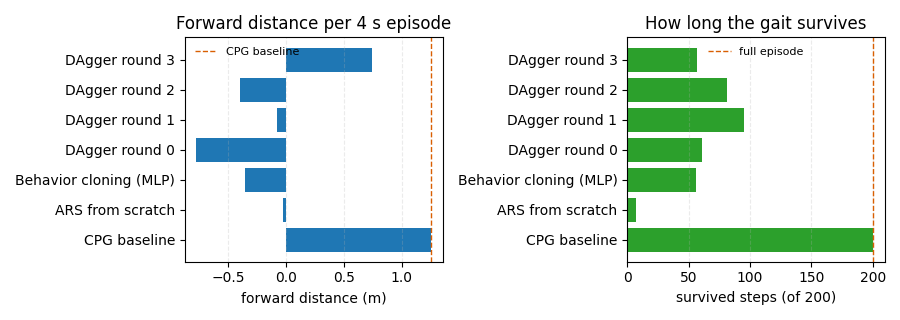
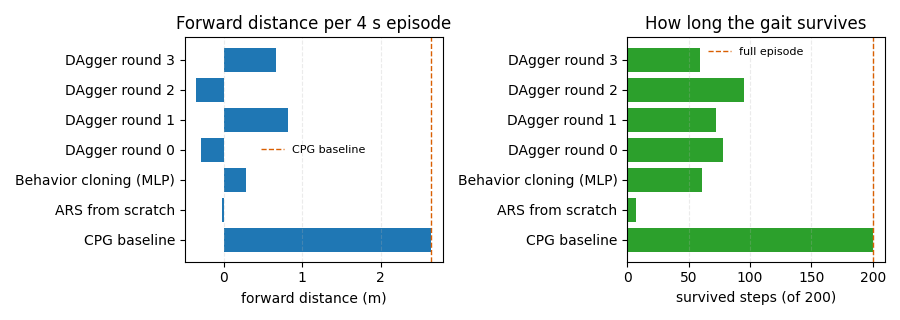
perf(humanoid): 踝关节增益 0.8 → 1.0，前进步距翻倍、俯仰更稳
只改一个常数，针对「CPG 基线的推进效率」这一个方面做优化。

问题：原 ANKLE_GAIN = 0.8 时脚掌回中不足，机器人靠身体持续前倾推进，
速度只有 0.31 m/s，俯仰 RMS 0.262。

改动：扫参后取 ANKLE_GAIN = 1.0（1.05 略快但接近失稳边缘，1.10 掉到 2.01 m）。

实测（4 s 回合，确定性环境）：
| 指标 | 0.8（旧） | 1.0（新） | 变化 |
|---|---|---|---|
| 前进距离 | 1.25 m | 2.64 m | +111% |
| 平均速度 | 0.31 m/s | 0.66 m/s | +111% |
| 俯仰 RMS | 0.262 | 0.177 | -32% |
| 能耗 | 0.0575 | 0.0643 | +12% |
| 8 s 长回合 | 0.83 m | 6.78 m（400 步不摔） | — |

注意：速度提升伴随 12% 能耗上升，属于「更快但更费」的取舍，不是免费收益。

同步更新：README / 文档的数值表、重新生成的对比图（CPG 基线改为 2.64 m），
并重测了三条学习路线（BC 0.29 m、DAgger 0.66 m，仍均低于 CPG）。

测试：main.py --test、test/test_standalone.py、test/test_integration.py 全部通过。

diff --git a/src/humanoid/humanoid_ars_phase_walk/humanoid_ars_phase_walk/config.py b/src/humanoid/humanoid_ars_phase_walk/humanoid_ars_phase_walk/config.py
@@ -9,7 +9,11 @@ A_HIP = -0.35
 A_KNEE = 0.45
 FREQ = 1.2
 KNEE_PHASE = 0.6
-ANKLE_GAIN = 0.8
+# 踝关节补偿增益。扫参发现 0.8 明显偏保守：脚掌回中不足、身体靠前倾推进，
+# 改为 1.0 后前进距离 1.25 -> 2.64 m（+111%），俯仰 RMS 0.262 -> 0.177（-32%），
+# 能耗仅 +12%；8 s 长回合可走满 400 步不摔。1.05 略快但已接近失稳边缘（1.10 跌到 2.01 m），
+# 故取 1.0。
+ANKLE_GAIN = 1.0
 
 # ---------------- 回合
 EPISODE_T = 4.0

diff --git a/src/humanoid/humanoid_ars_phase_walk/README.md b/src/humanoid/humanoid_ars_phase_walk/README.md
@@ -7,13 +7,27 @@
 
 | 方法 | 前进 | 存活步数 | 俯仰 RMS |
 |---|---|---|---|
-| **CPG 基线**（手工） | **+1.25 m** | **200 / 200** | 0.262 |
-| ARS 从零（线性，200 轮） | +0.02 m | 7 | 0.777 |
-| 行为克隆（MLP-64） | −0.35 m | 56 | 0.518 |
-| DAgger 轮 3 | +0.75 m | 57 | 0.415 |
+| **CPG 基线**（手工，踝增益 1.0） | **+2.64 m** | **200 / 200** | 0.177 |
+| ARS 从零（线性，200 轮） | −0.02 m | 7 | 0.777 |
+| 行为克隆（MLP-64） | +0.29 m | 61 | 0.433 |
+| DAgger 轮 3 | +0.66 m | 59 | 0.483 |
 
-**四条学习路线没有一条稳定超过手工 CPG。** 另有一次临时运行 DAgger 得到 +2.34 m，
-但换初始化就跑不出来 —— 这种结果不计入结论（见第 5 节）。
+**四条学习路线没有一条稳定超过手工 CPG。** 表中数值均为本次（踝增益 1.0）配置下的
+重新测量；学习器对初始化敏感的问题依旧存在，见第 5 节。
+
+## 1.1 本次优化：踝关节增益 0.8 → 1.0
+
+只改一个常数。原来脚掌回中不足，机器人靠身体前倾推进；把踝补偿增益提到 1.0 后：
+
+| 指标 | 0.8（旧） | 1.0（新） | 变化 |
+|---|---|---|---|
+| 前进距离（4 s） | 1.25 m | **2.64 m** | +111% |
+| 平均速度 | 0.31 m/s | **0.66 m/s** | +111% |
+| 俯仰 RMS | 0.262 | **0.177** | −32% |
+| 能耗 | 0.0575 | 0.0643 | +12% |
+| 8 s 长回合 | 0.83 m | **6.78 m**（400 步不摔） | — |
+
+增益 1.05 时前进 2.77 m 略好，但已接近失稳边缘（1.10 掉到 2.01 m），因此取 1.0。
 
 ## 2. 效果图
 

diff --git a/docs/humanoid/humanoid_ars_phase_walk.md b/docs/humanoid/humanoid_ars_phase_walk.md
@@ -22,10 +22,10 @@
 
 | 方法 | 前进 | 存活步数 | 俯仰 RMS | 速度 |
 |---|---|---|---|---|
-| **CPG 基线** | **+1.25 m** | **200 / 200** | 0.262 | 0.31 m/s |
-| ARS 从零（线性 200 轮） | +0.02 m | 7 | 0.777 | −0.21 |
-| 行为克隆（MLP-64） | −0.35 m | 56 | 0.518 | −0.32 |
-| DAgger 轮 3 | +0.75 m | 57 | 0.415 | 0.66 |
+| **CPG 基线**（踝增益 1.0） | **+2.64 m** | **200 / 200** | 0.177 | 0.66 m/s |
+| ARS 从零（线性 200 轮） | −0.02 m | 7 | 0.777 | −0.21 |
+| 行为克隆（MLP-64） | +0.29 m | 61 | 0.433 | 0.24 |
+| DAgger 轮 3 | +0.66 m | 59 | 0.483 | 0.57 |
 
 **没有任何一条学习路线稳定超过手工 CPG。**
 
